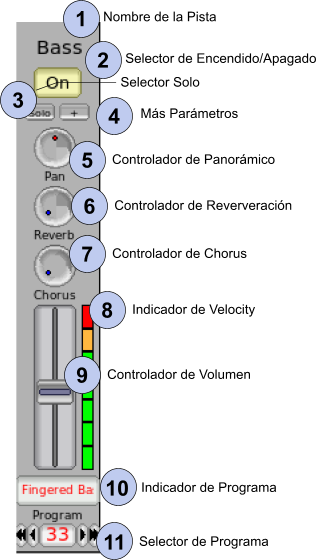
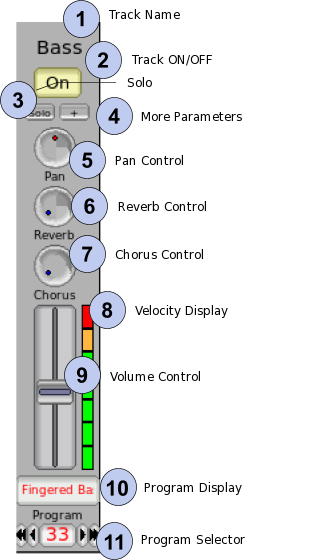
translate

diff --git a/doc/html/stygmorgan.html b/doc/html/stygmorgan.html
@@ -5,7 +5,7 @@
 	<title>stygmorgan Help</title>
 	<meta name="generator" content="LibreOfficeDev 6.4.0.0.beta1 (Linux)"/>
 	<meta name="created" content="2006-08-01T00:00:00.014142700"/>
-	<meta name="changed" content="2019-11-20T17:27:26.747214826"/>
+	<meta name="changed" content="2019-11-21T10:16:29.004518096"/>
 	<style type="text/css">
 		@page { size: 3.5cm 2.5cm; margin-left: 2cm; margin-right: 1cm; margin-top: 1cm; margin-bottom: 1cm }
 		p { margin-bottom: 0.25cm; background: transparent; color: #000000; line-height: 115%; background: transparent }
@@ -41,11 +41,11 @@
 		a:visited { color: #800000; so-language: zxx; text-decoration: underline }
 	</style>
 </head>
[1 lines of base64/hex data omitted]
-<img src="stygmorgan_html_f7685517de76332c.png" name="Image1" width="128" height="128" border="0"/>
[1 lines of base64/hex data omitted]
+<img src="stygmicon128.png" name="Image1" align="bottom" width="128" height="128" border="0"/>
 
-<font size="2" style="font-size: 10pt"><font size="7" style="font-size: 32pt">stygmorgan
-</font>&lt;C&gt; 2006-2019 by Josep Andreu</font></h1>
+<font size="7" style="font-size: 32pt">stygmorgan </font><font size="2" style="font-size: 10pt">&lt;C&gt;
+2006-2019 by Josep Andreu</font></h1>
 <hr/>
 
 <h2 class="western" style="margin-right: 4.39cm; margin-top: 0.2cm; margin-bottom: 0.1cm">
@@ -57,8 +57,8 @@ Index:</h2>
 <h3 class="western" style="margin-top: 0.12cm; margin-bottom: 0.2cm"><a href="#ComoEmepzar_Texto"><span style="text-decoration: none"><span lang="en-US">How</span></span><span style="text-decoration: none">
 </span><span style="text-decoration: none"><span lang="en-US"><span style="text-decoration: none"><span style="text-decoration: none">to
 Start</span></span></span></span></a><span style="text-decoration: none"><span lang="en-US"><span style="text-decoration: none"><span style="text-decoration: none"><a href="#ComoEmepzar_Texto">?</a></span></span></span></span></h3>
-<h3 class="western" style="margin-top: 0.12cm; margin-bottom: 0.2cm">Command
-line Options</h3>
+<h3 class="western" style="margin-top: 0.12cm; margin-bottom: 0.2cm"><a href="#LieaComandos_Texto"><span style="text-decoration: none">Command
+line Options</span></a></h3>
 <h3 class="western" style="margin-top: 0.12cm; margin-bottom: 0.2cm"><a href="#Preferencias_Texto"><span style="text-decoration: none"><span lang="en-US">Menu</span></span><span style="text-decoration: none">
 </span><span style="text-decoration: none"><span lang="en-US">Preferences</span></span></a></h3>
 <p style="margin-top: 0.1cm; margin-bottom: 0.2cm; line-height: 100%">
@@ -117,8 +117,8 @@ Split point</span></span></a></p>
 <a href="#MW(10)"><span style="text-decoration: none"><span lang="en-US">10.
 Bar.</span></span></a></p>
 <p style="margin-top: 0.1cm; margin-bottom: 0.2cm; line-height: 100%">
-<a href="#MW(11)"><span lang="en-US"><span style="text-decoration: none">11.
-Sync Start</span></span></a><span lang="en-US"><u> </u></span>
+<a href="#MW(11)"><span style="text-decoration: none"><span lang="en-US">11.
+Sync Start</span></span></a><u> </u>
 </p>
 <p style="margin-top: 0.1cm; margin-bottom: 0.2cm; line-height: 100%">
 <a href="#MW(12)"><span style="text-decoration: none"><span lang="en-US">12.
@@ -130,7 +130,7 @@ Tempo Controllers</span></span></a></p>
 <a href="#MW(14)"><span style="text-decoration: none"><span lang="en-US">14.
 Start/Stop</span></span></a></p>
 <p style="margin-top: 0.1cm; margin-bottom: 0.2cm; line-height: 100%">
-<a href="#MW(15)"><span lang="en-US"><span style="text-decoration: none">15.
+<a href="#MW(15)"><span style="text-decoration: none"><span lang="en-US">15.
 Chord Display</span></span></a><span style="text-decoration: none"> </span>
 </p>
 <p style="margin-top: 0.1cm; margin-bottom: 0.2cm; line-height: 100%">
@@ -156,100 +156,100 @@ Left Keyboard Mixer</span></span></a></p>
 <a href="#MW(22)"><span style="text-decoration: none"><span lang="en-US">22.
 Right Keyboard Mixer</span></span></a></p>
 <p style="margin-top: 0.1cm; margin-bottom: 0.2cm; line-height: 100%">
-<a href="#MW(23)"><span lang="en-US"><span style="text-decoration: none">23.
+<a href="#MW(23)"><span style="text-decoration: none"><span lang="en-US">23.
 Auto Fill-In</span></span></a></p>
 <p style="margin-top: 0.1cm; margin-bottom: 0.2cm; line-height: 100%">
-<a href="#MW(24)"><span lang="en-US"><span style="text-decoration: none">24
+<a href="#MW(24)"><span style="text-decoration: none"><span lang="en-US">24
 . Program Change Mode</span></span></a></p>
 <p style="margin-top: 0.1cm; margin-bottom: 0.2cm; line-height: 100%">
-<a href="#MW(25)"><span lang="en-US"><span style="text-decoration: none">25.
+<a href="#MW(25)"><span style="text-decoration: none"><span lang="en-US">25.
 Sound Volume</span></span></a></p>
 <p style="margin-top: 0.1cm; margin-bottom: 0.2cm; line-height: 100%">
-<a href="#MW(26)"><span lang="en-US"><span style="text-decoration: none">26.
+<a href="#MW(26)"><span style="text-decoration: none"><span lang="en-US">26.
 Style Volume</span></span></a></p>
-<h3 class="western"><a href="#Mezclador_Texto"><span lang="en-US"><span style="text-decoration: none">Mixer</span></span></a><span style="text-decoration: none">
+<h3 class="western"><a href="#Mezclador_Texto"><span style="text-decoration: none"><span lang="en-US">Mixer</span></span></a><span style="text-decoration: none">
 </span>
 </h3>
 <p style="margin-top: 0.1cm; margin-bottom: 0.2cm; line-height: 100%">
-<a href="#MZ(1)"><span lang="en-US"><span style="text-decoration: none">1.
+<a href="#MZ(1)"><span style="text-decoration: none"><span lang="en-US">1.
 Track Name</span></span></a></p>
 <p style="margin-top: 0.1cm; margin-bottom: 0.2cm; line-height: 100%">
-<a href="#MZ(2)"><span lang="en-US"><span style="text-decoration: none">2.
+<a href="#MZ(2)"><span style="text-decoration: none"><span lang="en-US">2.
 Track On/Of</span></span><span lang="en-US">f</span></a></p>
 <p style="margin-top: 0.1cm; margin-bottom: 0.2cm; line-height: 100%">
-<a href="#MZ(3)"><span lang="en-US"><span style="text-decoration: none">3.
+<a href="#MZ(3)"><span style="text-decoration: none"><span lang="en-US">3.
 Solo</span></span></a></p>
 <p style="margin-top: 0.1cm; margin-bottom: 0.2cm; line-height: 100%">
-<a href="#MZ(4)"><span lang="en-US"><span style="text-decoration: none">4.
+<a href="#MZ(4)"><span style="text-decoration: none"><span lang="en-US">4.
 More Parameters</span></span></a></p>
 <p style="margin-top: 0.1cm; margin-bottom: 0.2cm; line-height: 100%">
-<a href="#MZ(5)"><span lang="en-US"><span style="text-decoration: none">5.
+<a href="#MZ(5)"><span style="text-decoration: none"><span lang="en-US">5.
 Pan Control</span></span></a><span style="text-decoration: none"> </span>
 </p>
 <p style="margin-top: 0.1cm; margin-bottom: 0.2cm; line-height: 100%">
-<a href="#MZ(6)"><span lang="en-US"><span style="text-decoration: none">6.
+<a href="#MZ(6)"><span style="text-decoration: none"><span lang="en-US">6.
 Reverb Control</span></span></a></p>
 <p style="margin-top: 0.1cm; margin-bottom: 0.2cm; line-height: 100%">
-<a href="#MZ(7)"><span lang="en-US"><span style="text-decoration: none">7.
+<a href="#MZ(7)"><span style="text-decoration: none"><span lang="en-US">7.
 Chorus Control</span></span></a></p>
 <p style="margin-top: 0.1cm; margin-bottom: 0.2cm; line-height: 100%">
-<a href="#MZ(8)"><span lang="en-US"><span style="text-decoration: none">8.
+<a href="#MZ(8)"><span style="text-decoration: none"><span lang="en-US">8.
 Velocity Display</span></span></a><span style="text-decoration: none">
 </span>
 </p>
 <p style="margin-top: 0.1cm; margin-bottom: 0.2cm; line-height: 100%">
-<a href="#MZ(9)"><span lang="en-US"><span style="text-decoration: none">9.
+<a href="#MZ(9)"><span style="text-decoration: none"><span lang="en-US">9.
 Volume Control</span></span></a></p>
 <p style="margin-top: 0.1cm; margin-bottom: 0.2cm; line-height: 100%">
-<a href="#MZ(10)"><span lang="en-US"><span style="text-decoration: none">10.
+<a href="#MZ(10)"><span style="text-decoration: none"><span lang="en-US">10.
 Program Display</span></span></a><span style="text-decoration: none">
 </span>
 </p>
 <p style="margin-top: 0.1cm; margin-bottom: 0.2cm; line-height: 100%">
-<a href="#MZ(11)"><span lang="en-US"><span style="text-decoration: none">11.
+<a href="#MZ(11)"><span style="text-decoration: none"><span lang="en-US">11.
 Program Selector</span></span></a><span style="text-decoration: none">
 </span>
 </p>
-<h3 class="western"><a href="#MasParametors_Texto"><span lang="en-US"><span style="text-decoration: none">More</span></span><span style="text-decoration: none">
-</span><span lang="en-US"><span style="text-decoration: none">Parameters</span></span></a></h3>
+<h3 class="western"><a href="#MasParametors_Texto"><span style="text-decoration: none"><span lang="en-US">More</span></span><span style="text-decoration: none">
+</span><span style="text-decoration: none"><span lang="en-US">Parameters</span></span></a></h3>
 <p style="margin-top: 0.1cm; margin-bottom: 0.2cm; line-height: 100%">
-<a href="#MP(1)"><span lang="en-US"><span style="text-decoration: none">1.
+<a href="#MP(1)"><span style="text-decoration: none"><span lang="en-US">1.
 Octave Selector</span></span></a></p>
 <p style="margin-top: 0.1cm; margin-bottom: 0.2cm; line-height: 100%">
-<a href="#MP(2)"><span lang="en-US"><span style="text-decoration: none">2.
+<a href="#MP(2)"><span style="text-decoration: none"><span lang="en-US">2.
 Transpose Selector</span></span></a></p>
 <p style="margin-top: 0.1cm; margin-bottom: 0.2cm; line-height: 100%">
-<a href="#MP(3)"><span lang="en-US"><span style="text-decoration: none">3.
-Bank Selector</span></span><span style="text-decoration: none"> </span><span lang="en-US"><span style="text-decoration: none">(M)</span></span></a></p>
+<a href="#MP(3)"><span style="text-decoration: none"><span lang="en-US">3.
+Bank Selector</span></span><span style="text-decoration: none"> </span><span style="text-decoration: none"><span lang="en-US">(M)</span></span></a></p>
 <p style="margin-top: 0.1cm; margin-bottom: 0.2cm; line-height: 100%">
-<a href="#MP(4)"><span lang="en-US"><span style="text-decoration: none">4.
+<a href="#MP(4)"><span style="text-decoration: none"><span lang="en-US">4.
 Bank Selector (L)</span></span></a></p>
-<h3 class="western"><a href="#OpcionesMenu_Texto"><span lang="en-US"><span style="text-decoration: none">Menu
+<h3 class="western"><a href="#OpcionesMenu_Texto"><span style="text-decoration: none"><span lang="en-US">Menu
 Options</span></span></a></h3>
 <h4 class="western" style="margin-top: 0.1cm; margin-bottom: 0.2cm; line-height: 100%">
-<a href="#OM_MenuArchivo"><span lang="en-US"><span style="text-decoration: none">Menu</span></span><span style="text-decoration: none">
-</span><span lang="en-US"><span style="text-decoration: none">File</span></span></a></h4>
+<a href="#OM_MenuArchivo"><span style="text-decoration: none"><span lang="en-US">Menu</span></span><span style="text-decoration: none">
+</span><span style="text-decoration: none"><span lang="en-US">File</span></span></a></h4>
 <p style="margin-top: 0.1cm; margin-bottom: 0.2cm; line-height: 100%">
-<a href="#OM_Sonidos_Texto"><span lang="en-US"><span style="text-decoration: none">Sounds</span></span></a></p>
+<a href="#OM_Sonidos_Texto"><span style="text-decoration: none"><span lang="en-US">Sounds</span></span></a></p>
 <p style="margin-top: 0.1cm; margin-bottom: 0.2cm; line-height: 100%">
 <a href="#OM_Estilos_Texto"><span style="text-decoration: none">Styles</span></a></p>
 <p style="margin-top: 0.1cm; margin-bottom: 0.2cm; line-height: 100%">
 <a href="#OM_Registraciones_Texto"><span lang="en-US">Registrations</span></a></p>
 <p style="margin-top: 0.1cm; margin-bottom: 0.2cm; line-height: 100%">
-<a href="#OM_FicherosNombre_Texto"><span lang="en-US"><span style="text-decoration: none">Preset
+<a href="#OM_FicherosNombre_Texto"><span style="text-decoration: none"><span lang="en-US">Preset
 Name Files</span></span></a></p>
-<h4 class="western"><a href="#MenuEditar_Texto"><span lang="en-US"><span style="text-decoration: none">Menu
+<h4 class="western"><a href="#MenuEditar_Texto"><span style="text-decoration: none"><span lang="en-US">Menu
 Edit</span></span></a></h4>
-<p><a href="#EditordeEventos_Texto"><span lang="en-US"><span style="text-decoration: none">Event
+<p><a href="#EditordeEventos_Texto"><span style="text-decoration: none"><span lang="en-US">Event
 Edit</span></span></a></p>
-<p><span lang="en-US"><span style="text-decoration: none"><a href="#Copiarmezclador_Texto">Mixer
-C</a><a href="#Copiarmezclador_Texto">opy</a></span></span></p>
+<p><a href="#Copiarmezclador_Texto"><span style="text-decoration: none"><span lang="en-US">Copy
+Mixer</span></span></a></p>
 <p><a href="#EditorPatrones_Texto"><span style="text-decoration: none">Pattern
 Edit</span></a></p>
-<p><a href="#EditorEstilos_Texto"><span lang="en-US"><span style="text-decoration: none">Style
+<p><a href="#EditorEstilos_Texto"><span style="text-decoration: none"><span lang="en-US">Style
 Edit</span></span></a></p>
-<h3 class="western"><a href="#Secuenciador_Texto"><span lang="en-US"><span style="text-decoration: none">Sequencer</span></span></a></h3>
-<h3 class="western"><a href="#Consejos_Texto"><span lang="en-US"><span style="text-decoration: none">Tips
+<h3 class="western"><a href="#Secuenciador_Texto"><span style="text-decoration: none"><span lang="en-US">Sequencer</span></span></a></h3>
+<h3 class="western"><a href="#Consejos_Texto"><span style="text-decoration: none"><span lang="en-US">Tips
 and Tricks</span></span></a></h3>
 <hr/>
 
@@ -1037,35 +1037,34 @@ cards that incorporate a 'Wave Table' synthesizer, the fact of
 incorporating these effects is not a trivial task, a small guide of
 how to proceed is explained in the chapter <a href="#ComoEmepzar_Texto">How
 to Start</a></span></span></strong></p>
-<p><a name="MZ(7)"></a><span lang="en-US"><b>(7)</b></span><span lang="en-US">
-</span><span lang="en-US"><b>Chorus Controller.</b></span> <span lang="en-US">This
-controller handles the amount of volume of this track that will be
-sent to the Chorus effect of your synthesizer (sound source) This
-send a MIDI control message, observe the synthesizers by Timidty
-software and Fluidsynth incorporate these effects, you will have to
-activate them in the program configuration, in the case of the famous
-audio cards that incorporate a 'Wave Table' synthesizer, the fact of
-incorporating these effects is not a trivial task, a small guide of
-how to proceed is explained in the chapter.</span><strong> </strong><strong><a href="#ComoEmepzar_Texto"><span lang="en-US"><span style="font-weight: normal">How
+<p><a name="MZ(7)"></a><span lang="en-US"><b>(7)</b></span> <span lang="en-US"><b>Chorus
+Controller.</b></span> <span lang="en-US">This controller handles the
+amount of volume of this track that will be sent to the Chorus effect
+of your synthesizer (sound source) This send a MIDI control message,
+observe the synthesizers by Timidty software and Fluidsynth
+incorporate these effects, you will have to activate them in the
+program configuration, in the case of the famous audio cards that
+incorporate a 'Wave Table' synthesizer, the fact of incorporating
+these effects is not a trivial task, a small guide of how to proceed
+is explained in the chapter.</span><strong> </strong><strong><a href="#ComoEmepzar_Texto"><span lang="en-US"><span style="font-weight: normal">How
 to Start</span></span></a></strong></p>
-<p><a name="MZ(8)"></a><span lang="en-US"><b>(8)</b></span><span lang="en-US">
-</span><span lang="en-US"><b>Velocity indicator.</b></span> <span lang="en-US">This
-indicator shows you the maximum velocity sensitivity level in each
-1/16</span> <span lang="en-US">subdivision of the bar, remember that
-velocity sensitivity is not volume, in reality it is simply to
-indicate if there is activity on the track or not.</span></p>
-<p><a name="MZ(9)"></a><span lang="en-US"><b>(9)</b></span><span lang="en-US">
-</span><span lang="en-US"><b>Volume Control.</b></span> <span lang="en-US">This
-slider</span> <span lang="en-US">controls the volume of the specific
-track through, as in previous cases, a MIDI control message that is
-sent to your synthesizer (sound source).</span></p>
-<p><a name="MZ(10)"></a><span lang="en-US"><b>(10)</b></span><span lang="en-US">
-</span><span lang="en-US"><b>Program Indicator.</b></span> <span lang="en-US">Shows
-the name of the program (instrument) selected for this track. These
-names are obtained from a file with the names of General Midi
-programs that load stygmorgan at the beginning, if you want to use
-other types of extra sound banks you must edit this name file, as
-indicated in the chapter </span><strong><span lang="en-US"><span style="font-weight: normal"><a href="#ComoEmepzar_Texto">How
+<p><a name="MZ(8)"></a><span lang="en-US"><b>(8)</b></span> <span lang="en-US"><b>Velocity
+indicator.</b></span> <span lang="en-US">This indicator shows you the
+maximum velocity sensitivity level in each 1/16</span> <span lang="en-US">subdivision
+of the bar, remember that velocity sensitivity is not volume, in
+reality it is simply to indicate if there is activity on the track or
+not.</span></p>
+<p><a name="MZ(9)"></a><span lang="en-US"><b>(9)</b></span> <span lang="en-US"><b>Volume
+Control.</b></span> <span lang="en-US">This slider</span> <span lang="en-US">controls
+the volume of the specific track through, as in previous cases, a
+MIDI control message that is sent to your synthesizer (sound source).</span></p>
+<p><a name="MZ(10)"></a><span lang="en-US"><b>(10)</b></span> <span lang="en-US"><b>Program
+Indicator.</b></span> <span lang="en-US">Shows the name of the
+program (instrument) selected for this track. These names are
+obtained from a file with the names of General Midi programs that
+load stygmorgan at the beginning, if you want to use other types of
+extra sound banks you must edit this name file, as indicated in the
+chapter </span><strong><span lang="en-US"><span style="font-weight: normal"><a href="#ComoEmepzar_Texto">How
 to Start</a>.</span></span></strong></p>
 <p><a name="MZ(11)"></a><span lang="en-US"><b>(11) Program Selector.</b></span>
 <span lang="en-US">This selector allows you to choose the timbre of
